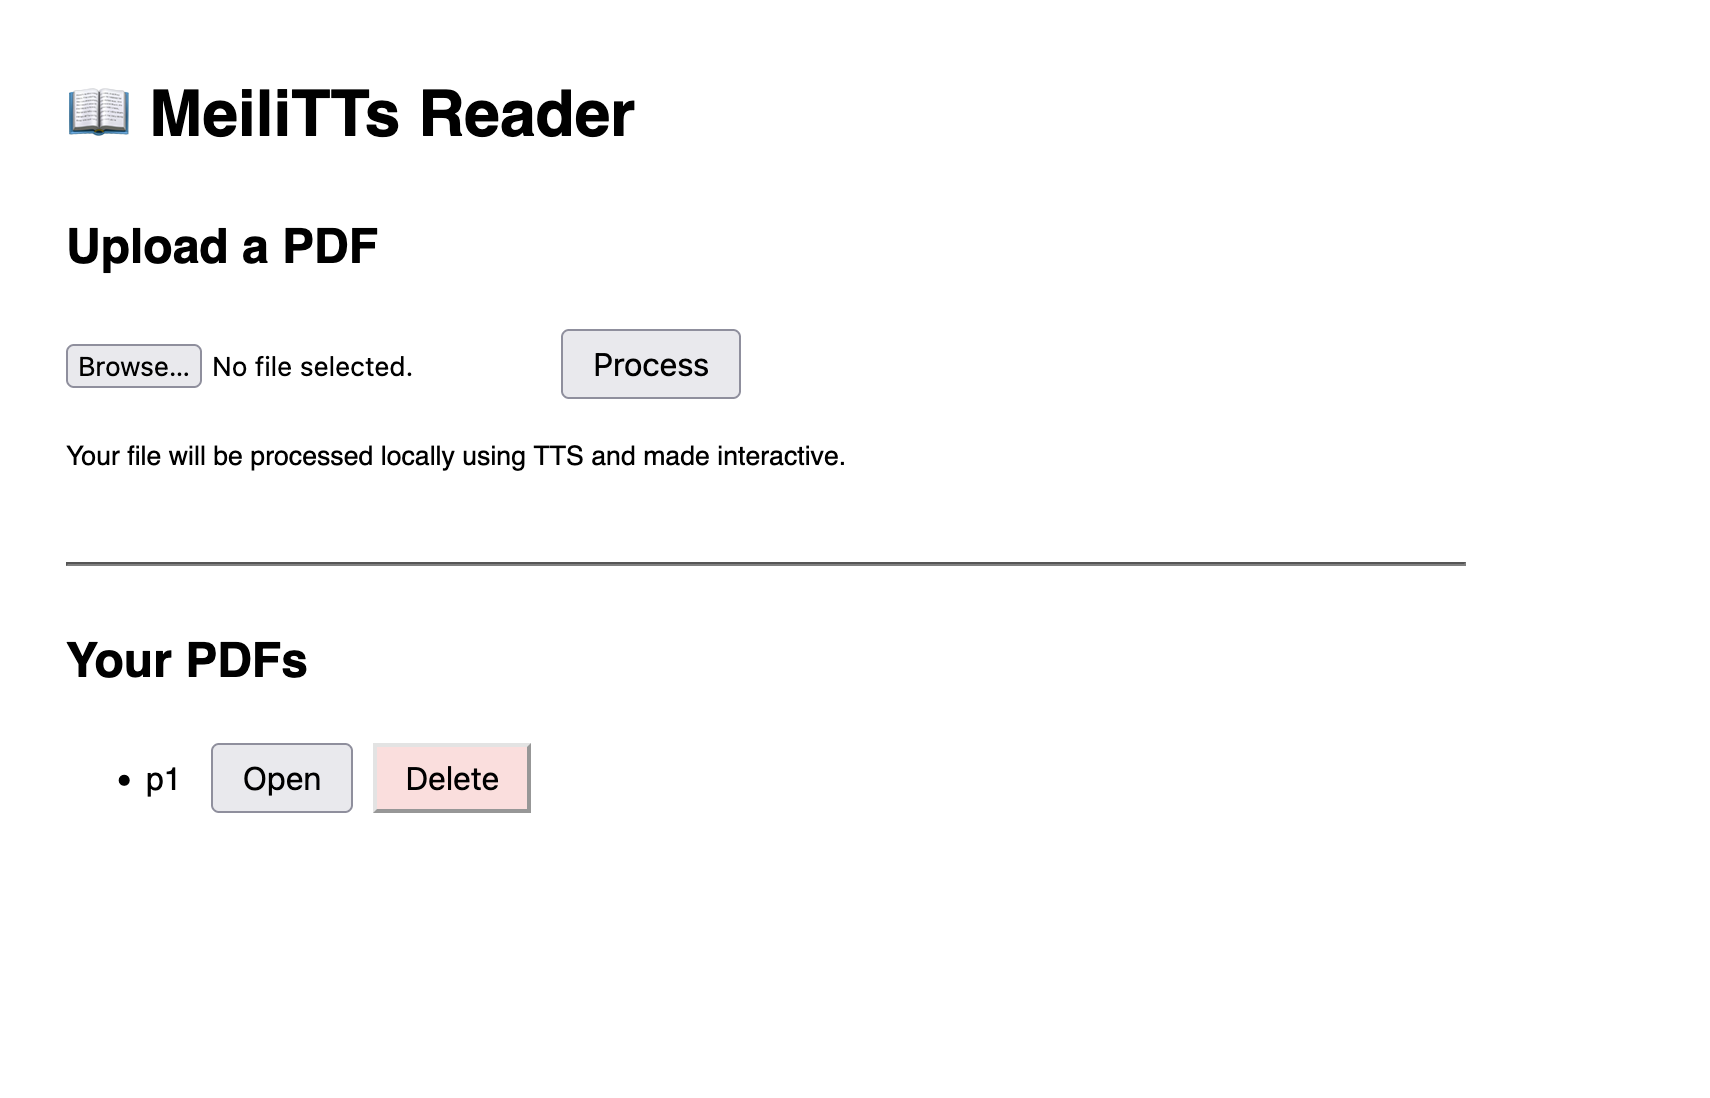
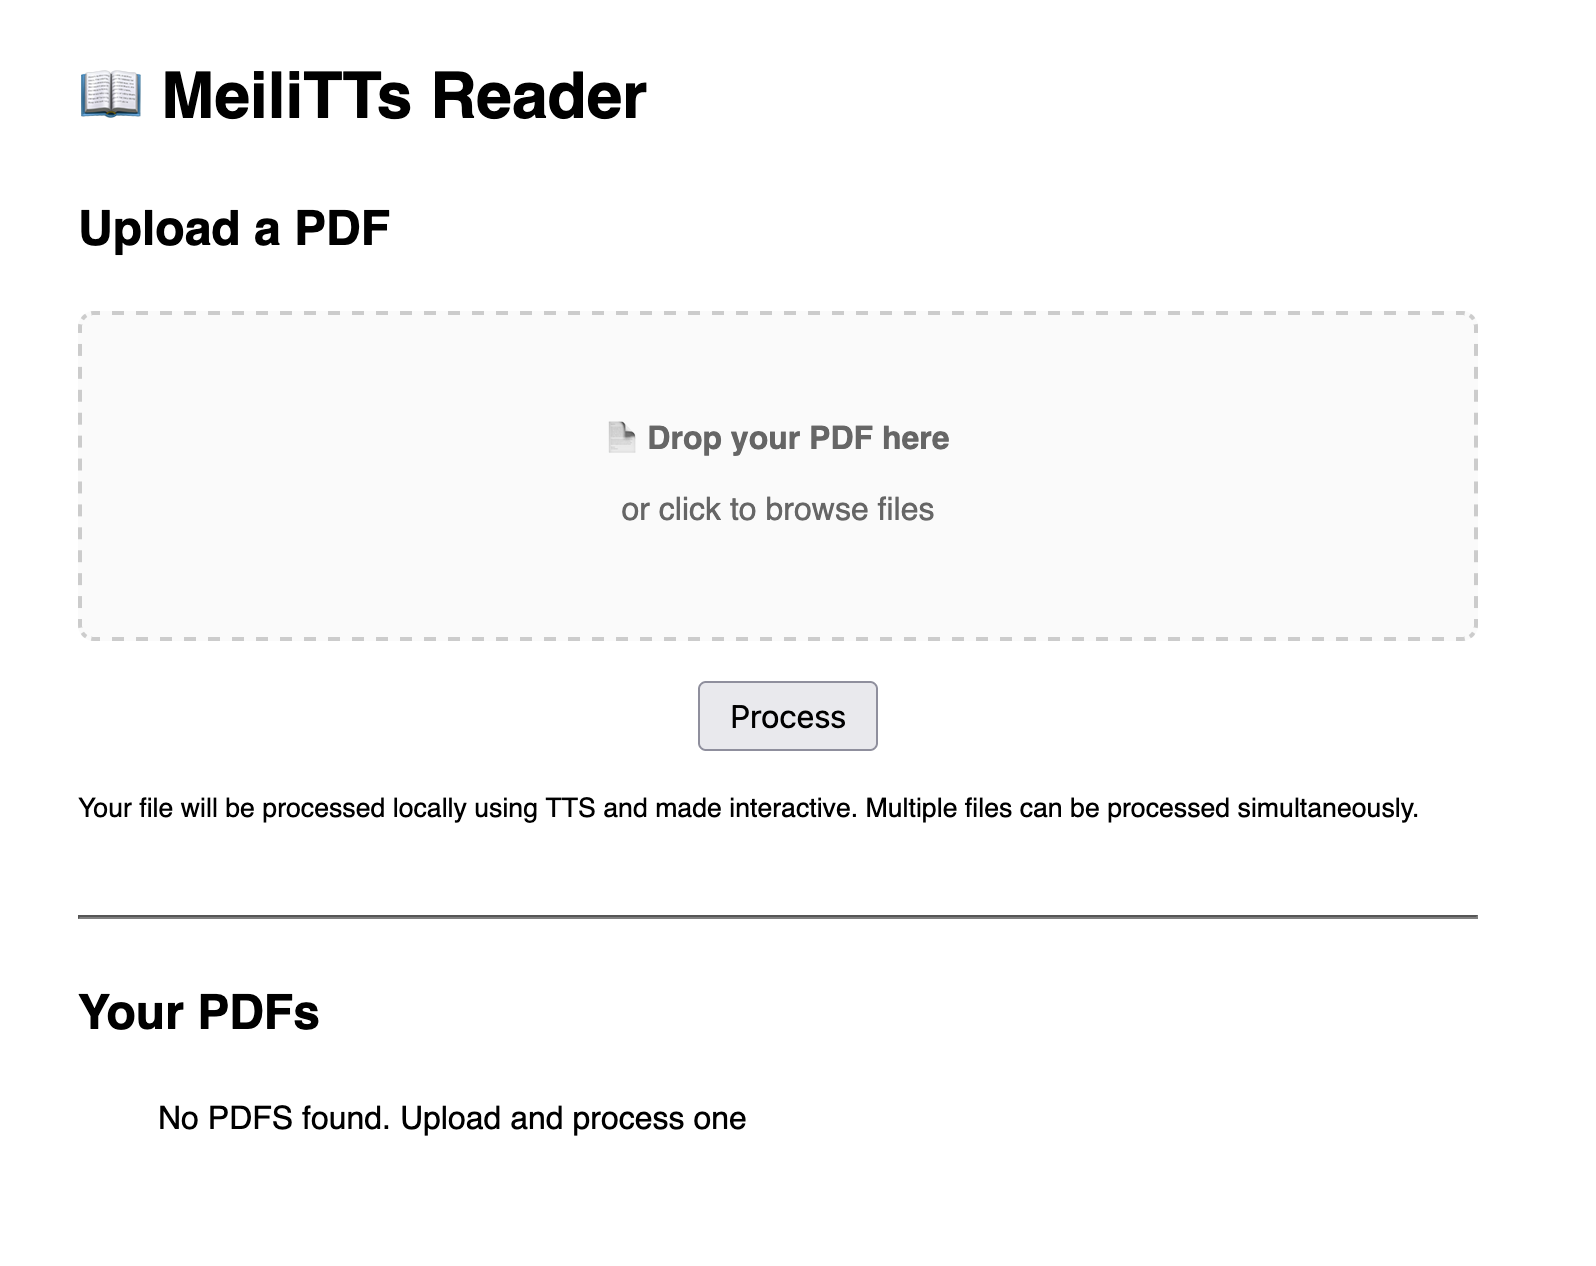
Update readme. Remove pycache from release. Fix broken files by adding suggestion to delete them.

diff --git a/MeiLiTTs/static/index.html b/MeiLiTTs/static/index.html
@@ -432,6 +432,16 @@
         }
       }
 
+      async function deleteIncompleteFile(name) {
+        // No confirmation for incomplete files - they're broken anyway
+        const res = await fetch(`/delete/${name}`, { method: "DELETE" });
+        if (res.ok) {
+          loadProcessed(); // Reload list
+        } else {
+          alert("Failed to delete incomplete file.");
+        }
+      }
+
       async function loadProcessed() {
         const res = await fetch("/list_processed");
         const files = await res.json();
@@ -443,23 +453,43 @@
           return;
         }
 
-        files.forEach((file) => {
+        files.forEach((item) => {
           const li = document.createElement("li");
 
-          const openBtn = document.createElement("button");
-          openBtn.textContent = "Open";
-          openBtn.onclick = () => {
-            window.location.href = `/reader.html/${file}`;
-          };
+          if (item.complete) {
+            // Complete file - show both Open and Delete buttons
+            const openBtn = document.createElement("button");
+            openBtn.textContent = "Open";
+            openBtn.onclick = () => {
+              window.location.href = `/reader.html/${item.name}`;
+            };
 
-          const delBtn = document.createElement("button");
-          delBtn.textContent = "Delete";
-          delBtn.style.backgroundColor = "#fdd";
-          delBtn.onclick = () => deletePDF(file);
+            const delBtn = document.createElement("button");
+            delBtn.textContent = "Delete";
+            delBtn.style.backgroundColor = "#fdd";
+            delBtn.onclick = () => deletePDF(item.name);
 
-          li.textContent = file + " ";
-          li.appendChild(openBtn);
-          li.appendChild(delBtn);
+            li.textContent = item.name + " ";
+            li.appendChild(openBtn);
+            li.appendChild(delBtn);
+          } else {
+            // Incomplete file - show warning and only Delete button
+            const warningSpan = document.createElement("span");
+            warningSpan.textContent = " ⚠ (incomplete - processing was interrupted)";
+            warningSpan.style.color = "#dc3545";
+            warningSpan.style.fontSize = "0.9em";
+
+            const delBtn = document.createElement("button");
+            delBtn.textContent = "Delete";
+            delBtn.style.backgroundColor = "#dc3545";
+            delBtn.style.color = "white";
+            delBtn.onclick = () => deleteIncompleteFile(item.name);
+
+            li.textContent = item.name;
+            li.appendChild(warningSpan);
+            li.appendChild(delBtn);
+          }
+
           list.appendChild(li);
         });
       }

diff --git a/MeiLiTTs/main.py b/MeiLiTTs/main.py
@@ -170,17 +170,28 @@ def list_jobs():
         return jsonify(jobs_with_ids)
 
 
+def is_processing_complete(folder_path):
+    """Check if a processed folder has all required files"""
+    required_files = ["chunks.json", "full.wav", "original.pdf"]
+    return all(os.path.exists(os.path.join(folder_path, file)) for file in required_files)
+
+
 @app.route("/list_processed")
 def list_processed():
     if not os.path.exists(OUTPUT_DIR):
         return jsonify([])
-    return jsonify(
-        [
-            name
-            for name in os.listdir(OUTPUT_DIR)
-            if os.path.isdir(os.path.join(OUTPUT_DIR, name))
-        ]
-    )
+    
+    processed_items = []
+    for name in os.listdir(OUTPUT_DIR):
+        folder_path = os.path.join(OUTPUT_DIR, name)
+        if os.path.isdir(folder_path):
+            is_complete = is_processing_complete(folder_path)
+            processed_items.append({
+                "name": name,
+                "complete": is_complete
+            })
+    
+    return jsonify(processed_items)
 
 
 @app.route("/delete/<name>", methods=["DELETE"])

diff --git a/README.md b/README.md
@@ -1,29 +1,39 @@
-** Still in progress..**
+Download here: https://drive.google.com/file/d/16okbqCzPgAn27-o-dqy9rdyh61RNfHDt/view?usp=sharing
+
+Or make your own :).
+
+_Needs system Python > 3.8, presumably M chip Mac (only tested on this)_
 
 ## MeiLiTTs App.
 
-A lightweight (250mb :laughing:) open source TTS reader!
+A lightweight (25mb) open source TTS reader!
 
-Upload your PDFs, watch them process locally, then follow along with them!
+Upload your PDFs, watch them process **locally**, then follow along with them!
 
 _only works on mac - potentially only on m3 - haven't checked anything else :p_
 
 Main view:
 ![minimalistic menu showing ability to process PDFs, open existing ones](readme_assets/main-view.png)
 
+Multi-processing:
+![Simple UI showing two reader files being processed once](readme_assets/processing.png)
+
 Reader View:
 ![simple paragraph chunked view w/ a play button & slider](readme_assets/reader-view.png)
 
 ### Instructions
 
-1. Download the zip. Unzip it
-2. Open the folder. Double click launch.command
-3. This will open a terminal window. Wait a bit
-4. During the first time using this app or after the folder is moved, the environment will be rebuilt. This will take a couple of minutes
-5. It will open a mac icon thing in the top right, and should open the website on your default browser
-6. Keep the terminal window open. Here you can see progress
+1. Download the zip. Unzip it.
+2. Put folder on desktop. Open the folder. Double click launch.command.
+3. This will open a terminal window. Don't be alarmed.
+4. If you've never ran this before it may download a new Python. This will take time. Errors may happen.
+5. The first time uing this app or after moving the folder, the environment will be rebuilt. This may take a couple of minutes.
+6. When ready, an icon thing will open in the top right of your screen (near the date/time), and the website should open
+7. Keep the terminal window open while running.
+8. Use the icon to quit the app when you're done
+9. Processed files will be saved locally. You can see them in the processed/ folder. Feel free to open this up and copy files out, but try not to change anything as it may break.
 
-### Information!
+### Dev Information
 
 1. bin/ has espeak-ng stuff in it. This should just work.
 

diff --git a/MeiLiTTs/README.md b/MeiLiTTs/README.md
@@ -1,5 +1,8 @@
-Double click launch.command to run!
+1. Double click launch.command to run!
+2. It will open a terminal window; don't be alarmed.
+3. The first time running this (or if the folder is moved) will take a minute or two to setup.
+4. When the app is ready it will show an icon in the top right menu bar, near date/time, and should open a window on your default browser.
+5. Use the icon to quit the app when you're done.
+6. Processed files will be saved locally. You can see them in the processed/ folder. Feel free to open this up and copy files out, but try not to change anything as it may break.
 
-It will open a terminal window; don't be alarmed.
-
-The first time running this (or if the folder is moved) will take a minute or two to setup
+Have fun!
